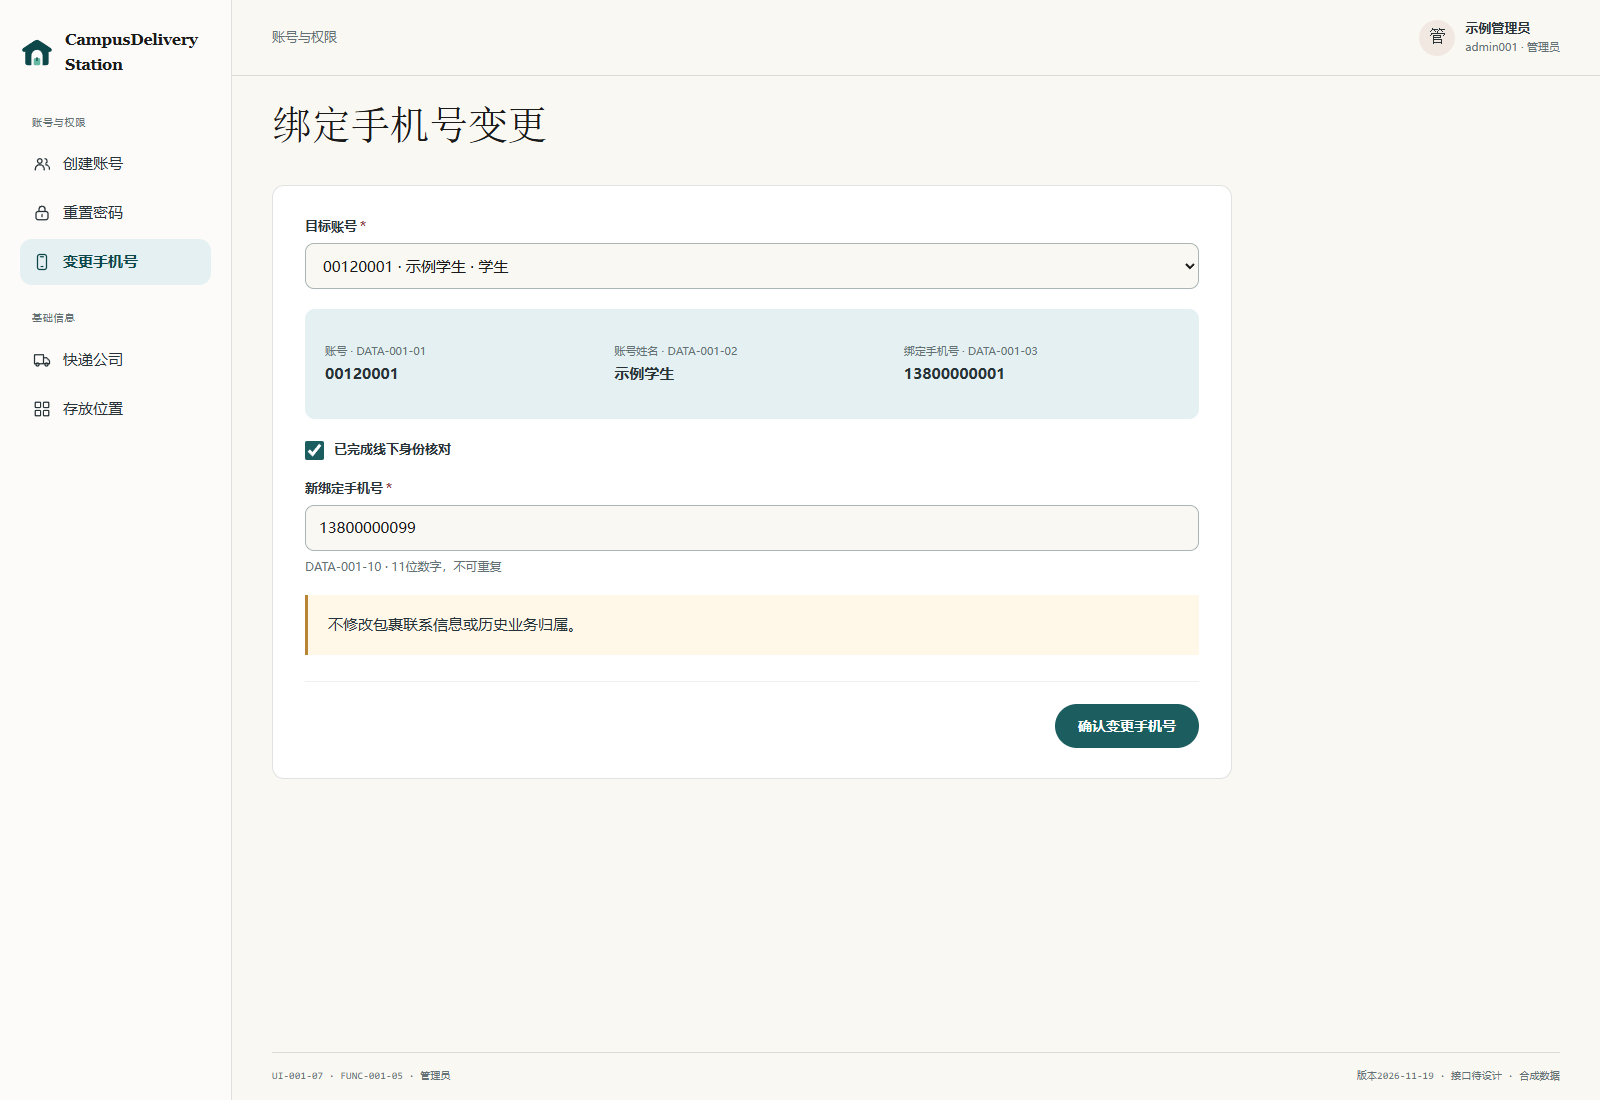
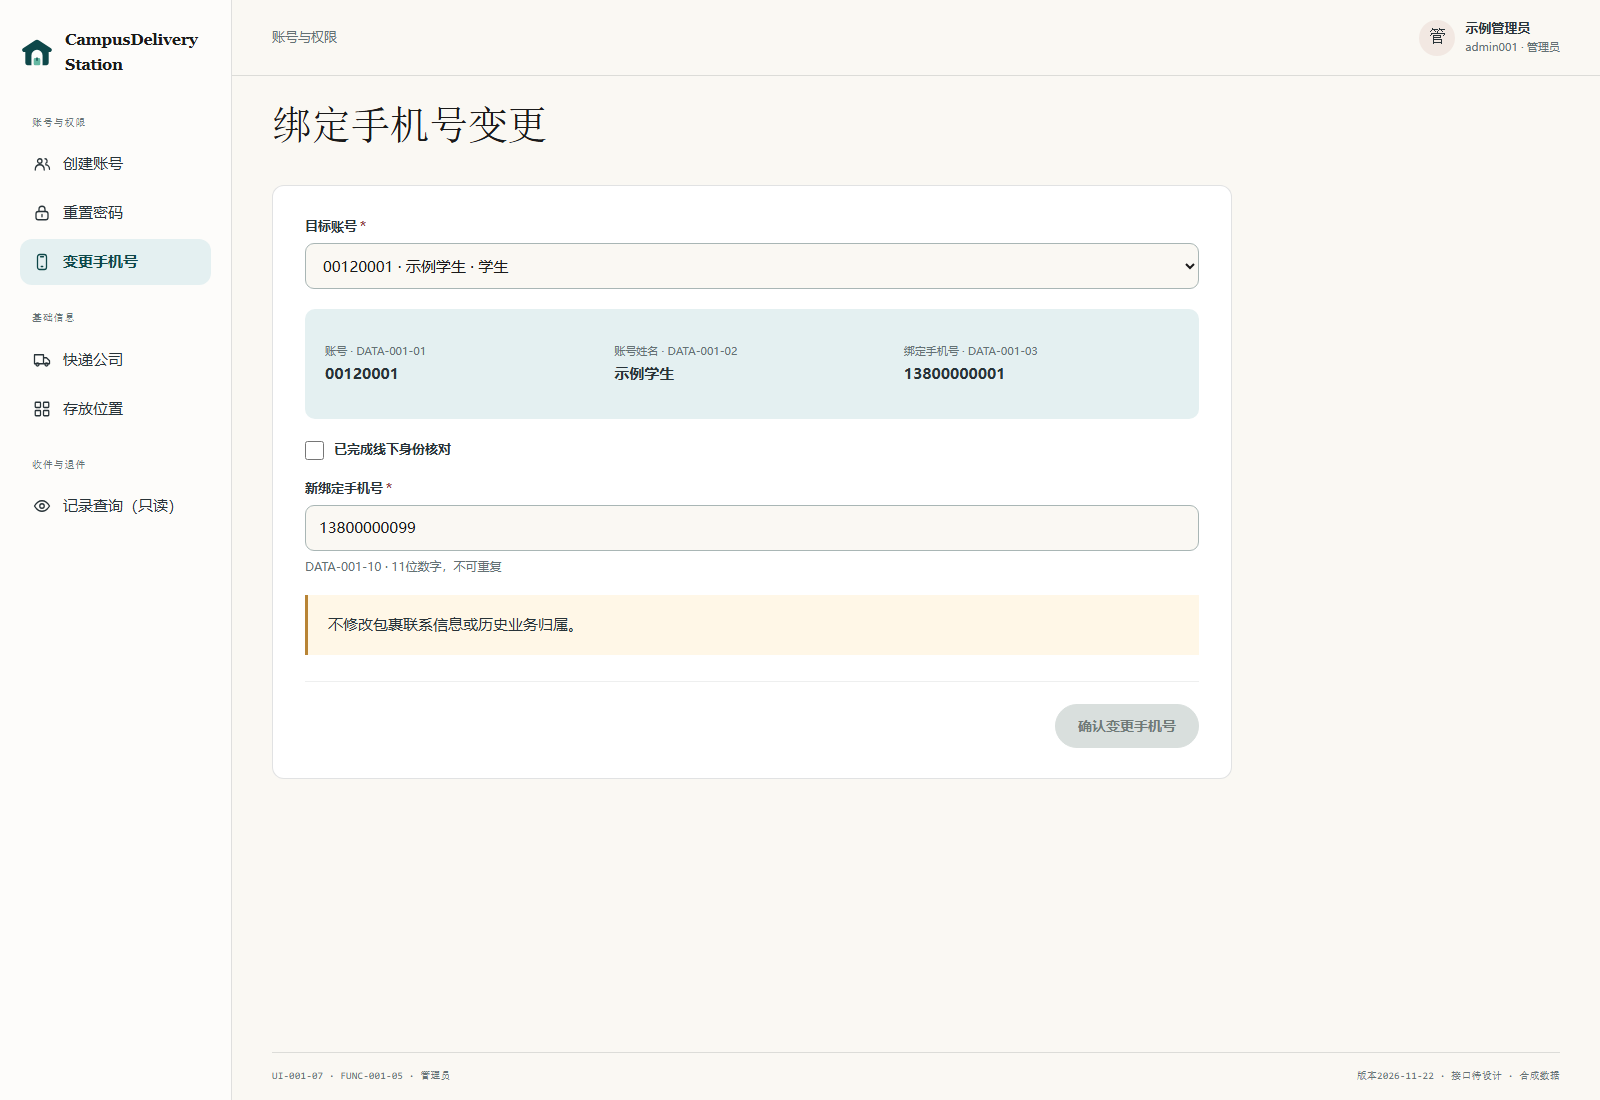
fix(prototype): 修复REQ-001业务入口与身份核对

diff --git a/docs/requirements/prototypes/杨振煜_REQ-001/prototype.js b/docs/requirements/prototypes/杨振煜_REQ-001/prototype.js
@@ -1,8 +1,10 @@
 "use strict";
 
-const VERSION = "2026-11-19";
+const VERSION = "2026-11-22";
 const exportMode = new URLSearchParams(window.location.search).get("export") === "1";
 const brandLogo = document.querySelector('link[rel="icon"]').href;
+const intakePrototype = "../任奕阳_REQ-002/REQ-002_界面原型.html";
+const pickupPrototype = "../张海睿_REQ_003/REQ-003_界面原型.html";
 document.body.classList.toggle("export", exportMode);
 
 const pages = {
@@ -32,7 +34,7 @@ let companies = initialCompanies.map(([name, referenced]) => ({ name, referenced
 let selectedCompany = "京东快递";
 let demoState = "normal";
 let toastTimer;
-let studentNeedsPasswordChange = true;
+let studentNeedsPasswordChange = !window.history.state?.studentPasswordChanged;
 const demoPassword = "Demo2026";
 let studentDemoPassword = demoPassword;
 const studentAccount = "00120001";
@@ -73,6 +75,17 @@ function navButton(route, active, label, iconName) {
   return `<button type="button" class="nav-item" data-route="${route}" ${active ? 'aria-current="page"' : ""}>${icon(iconName)}<span>${label}</span></button>`;
 }
 
+function prototypeUrl(file, route) {
+  const url = new URL(file, window.location.href);
+  url.hash = route;
+  if (exportMode) url.searchParams.set("export", "1");
+  return url.href;
+}
+
+function navLink(file, route, label, iconName) {
+  return `<a class="nav-item" href="${prototypeUrl(file, route)}">${icon(iconName)}<span>${label}</span></a>`;
+}
+
 function shell(route, content) {
   const page = pages[route];
   const role = page.role;
@@ -86,7 +99,14 @@ function shell(route, content) {
     <div class="nav-group"><p class="sidebar-caption">基础信息</p>
       ${navButton("company-list", route.startsWith("company-"), "快递公司", "truck")}
       ${navButton("locations", route === "locations", "存放位置", "grid")}
+    </div>
+    <div class="nav-group"><p class="sidebar-caption">收件与退件</p>
+      ${navLink(intakePrototype, "records-admin", "记录查询（只读）", "eye")}
     </div>` : `
+    <div class="nav-group"><p class="sidebar-caption">包裹服务</p>
+      ${navLink(pickupPrototype, "list", "我的包裹", "box")}
+      ${navLink(pickupPrototype, "pickup", "自助取件", "shield")}
+    </div>
     <div class="nav-group"><p class="sidebar-caption">账号安全</p>
       ${navButton("password", route === "password", "修改密码", "lock")}
     </div>`;
@@ -213,10 +233,10 @@ function passwordResetPage() {
     <div class="form-layout single"><form class="form-card" id="password-reset-form" novalidate>
       <div class="field"><label for="reset-account">目标账号<span class="required" aria-hidden="true">*</span></label><select id="reset-account" data-account-select="reset">${accountOptions()}</select></div>
       ${identityCard("reset")}
-      <label class="check-field"><input type="checkbox" id="reset-confirm" checked data-submit-gate="reset-submit"><span><strong>已完成线下身份核对</strong></span></label>
+      <label class="check-field"><input type="checkbox" id="reset-confirm" data-submit-gate="reset-submit"><span><strong>已完成线下身份核对</strong></span></label>
       <div class="field"><label for="reset-password">临时密码<span class="required" aria-hidden="true">*</span></label><div class="input-with-action"><input id="reset-password" name="password" type="password" value="Reset2026" autocomplete="new-password"><button class="input-action" type="button" data-toggle-password="reset-password" aria-label="显示临时密码">显示</button></div><p class="field-hint">DATA-001-04 · 8～20位，含字母和数字</p></div>
       <div class="info-card warning" style="margin-top:20px">下次登录须先修改密码。</div>
-      <div class="form-footer"><button class="button button-primary" id="reset-submit" type="submit">确认重置密码</button></div>
+      <div class="form-footer"><button class="button button-primary" id="reset-submit" type="submit" disabled>确认重置密码</button></div>
     </form></div>`;
   return shell("password-reset", content);
 }
@@ -227,10 +247,10 @@ function phoneChangePage() {
     <div class="form-layout single"><form class="form-card" id="phone-change-form" novalidate>
       <div class="field"><label for="phone-account">目标账号<span class="required" aria-hidden="true">*</span></label><select id="phone-account" data-account-select="phone">${accountOptions()}</select></div>
       ${identityCard("phone")}
-      <label class="check-field"><input type="checkbox" id="phone-confirm" checked data-submit-gate="phone-submit"><span><strong>已完成线下身份核对</strong></span></label>
+      <label class="check-field"><input type="checkbox" id="phone-confirm" data-submit-gate="phone-submit"><span><strong>已完成线下身份核对</strong></span></label>
       <div class="field"><label for="new-phone">新绑定手机号<span class="required" aria-hidden="true">*</span></label><input id="new-phone" name="phone" value="13800000099" inputmode="numeric" maxlength="11"><p class="field-hint">DATA-001-10 · 11位数字，不可重复</p></div>
       <div class="info-card warning" style="margin-top:20px">不修改包裹联系信息或历史业务归属。</div>
-      <div class="form-footer"><button class="button button-primary" id="phone-submit" type="submit">确认变更手机号</button></div>
+      <div class="form-footer"><button class="button button-primary" id="phone-submit" type="submit" disabled>确认变更手机号</button></div>
     </form></div>`;
   return shell("phone-change", content);
 }
@@ -302,6 +322,9 @@ function locationsPage() {
 
 function render() {
   const route = currentRoute();
+  if (pages[route].role === "学生" && !studentNeedsPasswordChange && !window.history.state?.studentPasswordChanged) {
+    window.history.replaceState({ ...window.history.state, studentPasswordChanged: true }, "");
+  }
   const listRoute = route === "company-list" || route === "locations";
   if (!listRoute) demoState = "normal";
   let html;
@@ -329,10 +352,6 @@ function render() {
   statePicker.value = demoState;
   statePicker.title = listRoute ? "切换清单的加载、无数据和请求失败状态" : "该公共状态示例在快递公司清单或存放位置页查看";
   document.querySelectorAll("[data-password-rules]").forEach(updatePasswordRules);
-  document.querySelectorAll("[data-submit-gate]").forEach(input => {
-    const button = document.getElementById(input.dataset.submitGate);
-    if (button) button.disabled = !input.checked;
-  });
   const passwordDialog = document.getElementById("forced-password-dialog");
   if (passwordDialog) {
     passwordDialog.addEventListener("cancel", event => event.preventDefault());
@@ -394,8 +413,12 @@ function requireFields(form, names) {
 
 function submitWithFeedback(form, callback) {
   const button = form.querySelector('[type="submit"]') || document.querySelector(`[form="${form.id}"]`);
+  if (button?.disabled) return;
+  const identityControls = form.querySelectorAll("[data-account-select], [data-submit-gate]");
+  identityControls.forEach(control => { control.disabled = true; });
   if (button) { button.disabled = true; button.dataset.originalText = button.textContent; button.textContent = "正在提交…"; }
   setTimeout(() => {
+    identityControls.forEach(control => { control.disabled = false; });
     if (button) { button.disabled = false; button.textContent = button.dataset.originalText; }
     callback();
   }, 450);
@@ -426,9 +449,7 @@ function handleLogin(form) {
     }
     const role = matched[1].role;
     if (role === "工作人员") {
-      const workbench = new URL("../任奕阳_REQ-002/REQ-002_界面原型.html#intake", window.location.href);
-      if (exportMode) workbench.searchParams.set("export", "1");
-      window.location.assign(workbench.href);
+      window.location.assign(prototypeUrl(intakePrototype, "intake"));
     } else {
       window.location.hash = role === "管理员" ? "account-create" : "student";
     }
@@ -482,11 +503,9 @@ function handleForcedPassword(form) {
     if (currentRoute() === "password-forced") {
       const studentUrl = new URL(window.location.href);
       studentUrl.hash = "student";
-      window.history.replaceState(null, "", studentUrl);
-      render();
-    } else {
-      form.closest("dialog").close();
+      window.history.replaceState(window.history.state, "", studentUrl);
     }
+    render();
     document.getElementById("main").focus({ preventScroll: true });
     showToast("密码修改成功，强制改密已解除");
   });
@@ -538,6 +557,13 @@ function updateAccountDetails(select) {
   document.getElementById(`${prefix}-detail-account`).textContent = select.value;
   document.getElementById(`${prefix}-detail-name`).textContent = item.name;
   document.getElementById(`${prefix}-detail-phone`).textContent = item.phone;
+  const confirmation = select.form.querySelector("[data-submit-gate]");
+  confirmation.checked = false;
+  syncSubmitGate(confirmation);
+}
+
+function syncSubmitGate(confirmation) {
+  document.getElementById(confirmation.dataset.submitGate).disabled = !confirmation.checked;
 }
 
 function populatePicker() {
@@ -602,10 +628,7 @@ document.addEventListener("change", event => {
     document.getElementById("create-account").placeholder = placeholders[event.target.value];
   }
   if (event.target.matches("[data-account-select]")) updateAccountDetails(event.target);
-  if (event.target.matches("[data-submit-gate]")) {
-    const button = document.getElementById(event.target.dataset.submitGate);
-    if (button) button.disabled = !event.target.checked;
-  }
+  if (event.target.matches("[data-submit-gate]")) syncSubmitGate(event.target);
 });
 
 document.addEventListener("submit", event => {

diff --git a/docs/requirements/prototypes/杨振煜_REQ-001/prototype.css b/docs/requirements/prototypes/杨振煜_REQ-001/prototype.css
@@ -80,7 +80,7 @@ h3 { margin-bottom: 8px; color: var(--ink); font-size: 16px; }
 .sidebar .brand-name { font-size: 16px; }
 .sidebar-caption { margin: 0 12px 10px; color: var(--muted); font-family: var(--font-mono); font-size: 10px; letter-spacing: .08em; }
 .nav-group { margin-bottom: 26px; }
-.nav-item { width: 100%; display: flex; align-items: center; gap: 12px; min-height: 46px; margin: 3px 0; padding: 10px 13px; border: 0; border-radius: 12px; background: transparent; color: var(--ink); text-align: left; transition: background 180ms var(--ease), color 180ms var(--ease); }
+.nav-item { width: 100%; display: flex; align-items: center; gap: 12px; min-height: 46px; margin: 3px 0; padding: 10px 13px; border: 0; border-radius: 12px; background: transparent; color: var(--ink); text-align: left; text-decoration: none; transition: background 180ms var(--ease), color 180ms var(--ease); }
 .nav-item:hover { background: var(--card-mint); }
 .nav-item[aria-current="page"] { background: var(--card-mint); color: var(--pine); font-weight: 700; }
 .nav-item .icon { width: 18px; height: 18px; }

diff --git a/docs/requirements/prototypes/杨振煜_REQ-001/REQ-001_界面原型说明.md b/docs/requirements/prototypes/杨振煜_REQ-001/REQ-001_界面原型说明.md
@@ -1,15 +1,13 @@
 # REQ-001界面原型说明
 
-负责人：杨振煜。版本日期：2026-11-19。材料状态：待评审。
+负责人：杨振煜。版本日期：2026-11-22。材料状态：待评审。
 
 可编辑源文件为[REQ-001_界面原型.html](REQ-001_界面原型.html)，样式及交互分别位于[prototype.css](prototype.css)和[prototype.js](prototype.js)。12张图片位于[原型图](原型图/)。品牌使用[校园驿站SVG](../../../design/assets/campus-delivery-station.svg)。
 
 ## 功能口径
 
-1. [REQ-001功能分析表](../../function-analysis/杨振煜_REQ-001/杨振煜_REQ-001_功能分析表.xlsx)和[总功能分析表](../../function-analysis/第17组.功能分析表.xlsx)当前均登记11项，编号为FUNC-001-01～11。
-2. 按[ADR-008](../../../management/decisions.md#adr-008账号与基础信息原型规则确认)，FUNC-001-09～11存放位置新增、修改、删除退出当前范围，编号保留作历史追踪；新增FUNC-001-12固定层位只读查看。
-3. 因此本次现行原型范围为FUNC-001-01～08及FUNC-001-12，共9项；REQ-001功能登记总数仍为11项。两种口径不能混写为“REQ-001只有9项功能”。
-4. 总功能分析表、模块功能表及数据分析表尚未同步ADR-008和FUNC-001-12。本次不修改其他负责人的分析材料，待对应材料同步并联合评审后，才能将功能分析、原型及CR-04整体标记为完成。
+1. 按[ADR-008](../../../management/decisions.md#adr-008账号与基础信息原型规则确认)，[REQ-001功能分析表](../../function-analysis/杨振煜_REQ-001/杨振煜_REQ-001_功能分析表.xlsx)、[总功能分析表](../../function-analysis/第17组.功能分析表.xlsx)和原型均覆盖9项现行功能，即FUNC-001-01～08及FUNC-001-12。
+2. 原存放位置新增、修改和删除（FUNC-001-09～11）已归档。原位置流程07及相关数据分析材料待同步。
 
 ## 页面与功能对应
 
@@ -44,9 +42,9 @@
 
 - 登录缺失、首尾空白或格式错误时就地显示字段错误。账号、绑定手机号或演示密码未匹配时留在登录页，提示核对后重试。成功时按预置账号的固定角色进入对应原型。
 - 创建账号检查角色对应格式、账号及手机号唯一性、姓名和密码格式。用三类预置账号核对重复，账号和手机号的错误各显示在对应字段下。UI-001-03预填未占用的合成学生账号`00120003`及手机号`13800000004`，可直接演示创建成功和首次改密提醒。
-- 学生首次登录进入学生首页时，自动弹出强制改密对话框。弹窗开启时暂停页面操作，点击遮罩或按Escape均保留弹窗。修改成功后关闭弹窗，留在学生首页。同一页面演示中，再次登录使用新密码。原型导览的UI-001-05可直接查看该弹窗状态。
+- 学生首次登录进入学生首页时，自动弹出强制改密对话框。弹窗开启时暂停页面操作，点击遮罩或按Escape均保留弹窗。修改成功后留在学生首页，可从侧栏进入REQ-003“我的包裹”或“自助取件”。浏览器返回该首页时保留已改密状态，同一页面演示中再次登录使用新密码。原型导览的UI-001-05可直接查看该弹窗状态。
 - 普通改密验证原密码；强制改密只输入新密码。新密码规则为8～20位、含字母和数字、不含空白字符。
-- 重置密码和换绑手机号的提交按钮由“已完成线下身份核对”控制；选定账号后显示账号、姓名及完整绑定手机号。
+- 重置密码和换绑手机号选定目标账号后显示账号、姓名及完整绑定手机号。身份核对默认未勾选，提交按钮禁用。切换目标账号时刷新身份资料并清除确认。管理员重新勾选“已完成线下身份核对”后可提交。
 - 快递公司名称去掉首尾空白后须为1～50位且清单内唯一。更名保留业务关联并显示当前名称；已引用记录不显示可执行的删除按钮。
 - 快递公司新增、修改抽屉通过右上角“关闭”或Escape返回公司清单，使用[共用抽屉返回交互](../shared/drawer-navigation.js)。
 - 管理员只读查看存放位置。UI-001-12与REQ-002入库下拉共用[固定层位清单](../shared/fixed-locations.js)，覆盖A～L区、每区1～6层。
@@ -57,15 +55,15 @@
 
 | 角色 | 演示账号 | 绑定手机号 | 登录去向 |
 | --- | --- | --- | --- |
-| 学生 | `00120001` | `13800000001` | 学生首页。首次登录弹出强制改密 |
+| 学生 | `00120001` | `13800000001` | 学生首页。完成必要改密后，可进入[我的包裹](../张海睿_REQ_003/REQ-003_界面原型.html#list)或[自助取件](../张海睿_REQ_003/REQ-003_界面原型.html#pickup) |
 | 工作人员 | `staff001` | `13800000002` | [REQ-002收件入库原型](../任奕阳_REQ-002/REQ-002_界面原型.html)。浏览器返回可继续演示登录 |
-| 管理员 | `admin001` | `13800000003` | 账号创建与角色分配页 |
+| 管理员 | `admin001` | `13800000003` | 账号创建与角色分配页。侧栏可进入[收件退件记录查询（只读）](../任奕阳_REQ-002/REQ-002_界面原型.html#records-admin) |
 
 所有接口路径、operationId、Schema、错误码及认证方案均待TASK-003评审，本原型不发起网络请求。
 
 ## 权限与功能入口
 
-- 用户登录后，只显示当前角色有权使用的菜单和按钮。例如学生端的账号安全页面显示本人修改密码入口，账号管理和基础信息维护入口由管理员使用。
+- 学生侧栏提供包裹服务和本人修改密码。管理员侧栏提供账号管理、基础信息及收件退件记录只读查询。工作人员登录后直接进入收件入库工作台。
 - 已登录用户通过链接打开无权访问的页面时，前端在展示目标页面前拦截，并转到该角色可访问的页面。
 - 请求到达后端时，后端独立校验权限，按[接口规范](../../../api/README.md#http状态与错误码)以`403 FORBIDDEN`拒绝无权操作。入口显示、路由拦截和后端校验分别在实现阶段验收。
 
@@ -73,13 +71,7 @@
 
 - 插画：[校园快递.svg](插画/校园快递.svg)。
 - 图片：`原型图/UI-001-01`至`UI-001-12`，均为1600×1100像素。
-- 导出工具：[tools/export.cjs](tools/export.cjs)，依赖版本固定在[tools/package.json](tools/package.json)。
-- 更新源文件后，在仓库根目录依次执行：
-
-```powershell
-npm install --prefix docs/requirements/prototypes/杨振煜_REQ-001/tools
-npm run --prefix docs/requirements/prototypes/杨振煜_REQ-001/tools export -- --images-only
-```
+- 导出时在原型地址使用`?export=1`隐藏导览栏，按`prototype.js`中`pages`登记的路由和文件名截取1600×1100视口。
 
 ## 已执行检查
 
@@ -88,7 +80,7 @@ npm run --prefix docs/requirements/prototypes/杨振煜_REQ-001/tools export -- 
 - 12张图片全部导出，页面级横向溢出和导出视口溢出检查通过。
 - 登录格式与角色识别、建号重复阻止、普通改密、身份核对门禁、手机号空白校验、公司重名阻止、引用删除阻止、72层位及Escape关闭公司维护对话框检查通过。
 - 示例学生首次登录后自动弹窗，新密码输入获得焦点；点击遮罩和按Escape仍保留弹窗。无效密码提示错误，改密成功后弹窗关闭并留在学生首页，同一演示中用绑定手机号再次登录时直接进入学生首页。
-- 学生普通改密页面的侧栏仅显示“修改密码”。原型导览已移除无权限页面，原预览链接打开登录页。
+- 原型导览已移除无权限页面，原预览链接打开登录页。
 - 1600×1100、1024×768、390×844三档代表页布局检查通过，减少动态效果媒体查询生效。
 - 浏览器脚本错误0项，外部网络请求0项。
 
@@ -99,5 +91,7 @@ npm run --prefix docs/requirements/prototypes/杨振煜_REQ-001/tools export -- 
 同日在Edge逐项对照UI-001-12的72个只读层位与UI-002-01的入库选项，核对分区、层号、顺序及三档视口。
 
 同日在Edge检查快递公司新增和修改抽屉的关闭按钮及Escape，均返回公司清单。回归公司删除对话框和学生首次强制改密，抽查窄屏下抽屉关闭按钮可点击。
+
+同日在Edge完成39项交互及布局检查。复测首次改密、学生两个包裹入口和浏览器返回、管理员进入收件退件只读查询、工作人员进入收件入库、重置密码和换绑手机号的身份核对，以及1600×1100、1024×768、390×844三档视口。重新导出并逐张检查12张1600×1100原型图。
 
 待验证项包括实际应用的路由拦截和后端鉴权、真实接口联调、200%浏览器缩放、完整键盘流程和屏幕阅读器检查。
